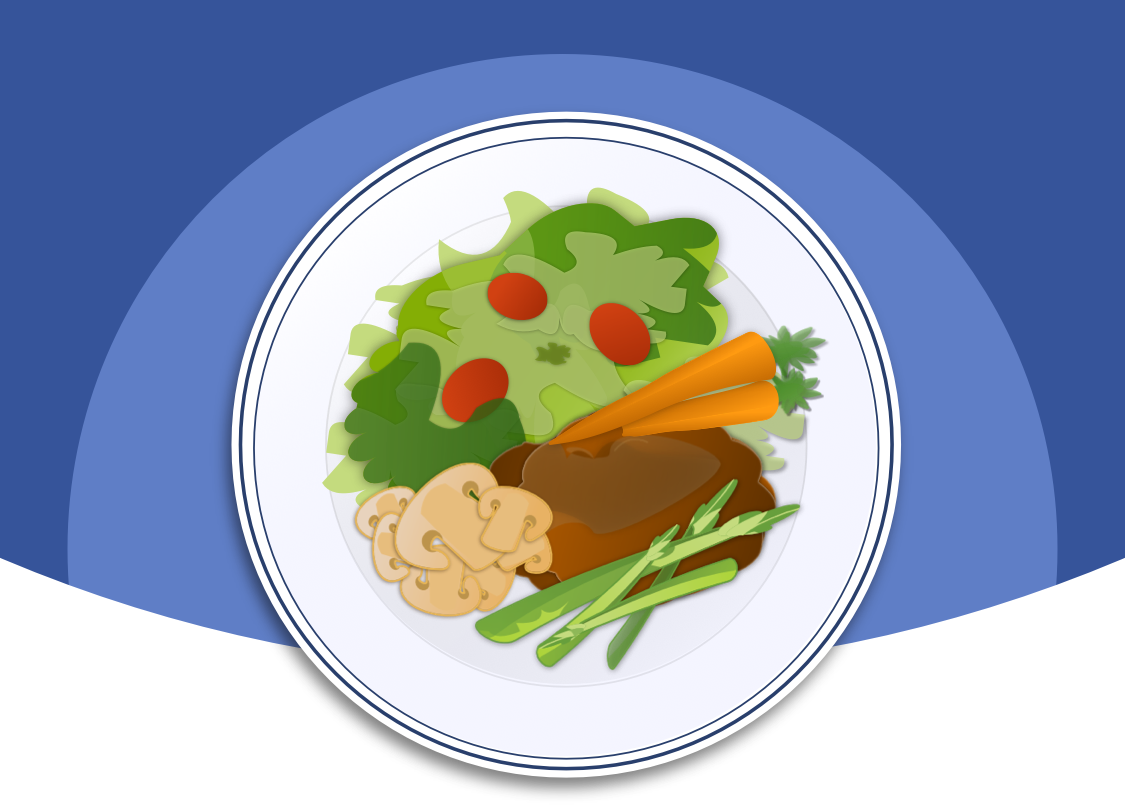
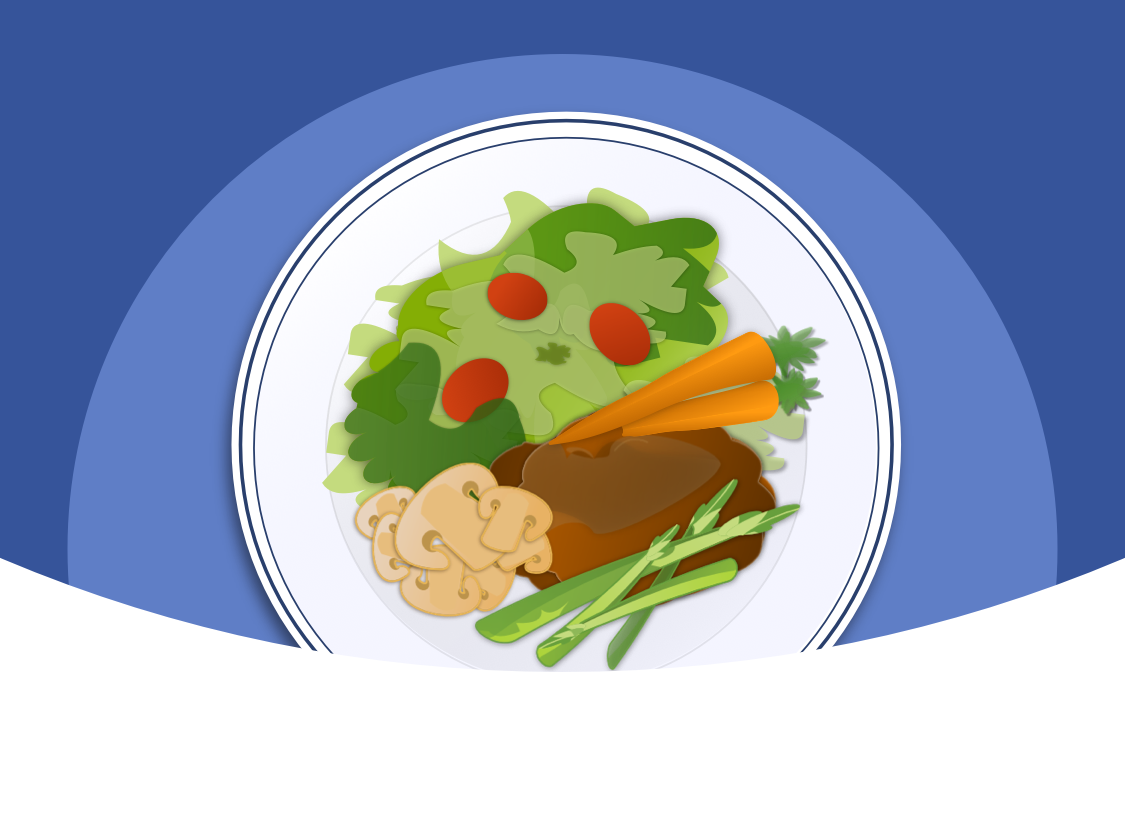
fix typo & start customize path page

diff --git a/components/CustomizePath.js b/components/CustomizePath.js
@@ -1,0 +1,193 @@
+import React from 'react';
+import {
+  ScrollView,
+  TouchableOpacity,
+  View,
+  Text,
+  Image,
+  StyleSheet,
+} from 'react-native';
+import FFStatusBar from './common/FFStatusBar';
+import NutrientButton from './common/NutrientButton';
+import BackArrow from './common/BackArrow';
+import PathHeader from './common/PathHeader';
+import BlueBottomElipse2 from './common/BlueBottomElipse2';
+import FFNarrowButton from './common/FFNarrowButton';
+import {connect} from 'react-redux';
+import {normalize} from '../utils/deviceScaling';
+import propTypes from 'prop-types';
+
+class CustomizePath extends React.Component {
+  static propTypes = {
+    errorMessage: '',
+  };
+  renderNutrients = (nutrients) => {
+    let nutrientByTheme = {};
+    nutrients.map((nutrient) => {
+      if (!nutrientByTheme[nutrient.themeId]) {
+        nutrientByTheme[nutrient.themeId] = [];
+      }
+      nutrientByTheme[nutrient.themeId].push(nutrient);
+    });
+    // if theme is added, must update here:
+    const range = [1, 2, 3, 4, 5];
+    return (
+      <View style={styles.nutrientsContainer}>
+        {range.map((i) => {
+          const themeNutrients = nutrientByTheme[i];
+          return themeNutrients.map((nutrient) => {
+            return (
+              <NutrientButton
+                key={nutrient.id}
+                nutrient={nutrient}
+                style={styles.nutrientButton}
+                navigation={this.props.navigation}
+                displayAddNutrientButton={true}
+              />
+            );
+          });
+        })}
+      </View>
+    );
+  };
+  render() {
+    const nutrients = this.props.nutrients.list;
+    return (
+      <>
+        <FFStatusBar />
+        {/*scrollIndicatorInsets setting prevents bug: https://github.com/facebook/react-native/issues/26610*/}
+        <ScrollView style={styles.rectangle} scrollIndicatorInsets={{right: 1}}>
+          {/**render default header under real header so if internet fails, default header appears.*/}
+          <PathHeader style={styles.headerImg} />
+          <View style={styles.formContainer}>
+            <Text style={styles.h1}>Customize Your Path</Text>
+          </View>
+          <Text style={styles.title}></Text>
+          <View style={styles.line} />
+          {this.renderNutrients(nutrients)}
+
+          <BlueBottomElipse2 style={styles.blueElipse} />
+          <View style={styles.submitButton}>
+            <FFNarrowButton label={'Submit'} onClick={this.handleSubmit} />
+          </View>
+          <View style={styles.arrowContainer}>
+            <BackArrow
+              style={styles.backArrow}
+              onPress={() => this.props.navigation.pop()}
+            />
+          </View>
+        </ScrollView>
+      </>
+    );
+  }
+}
+
+const styles = StyleSheet.create({
+  headerImg: {
+    // resizeMode: 'contain',
+    width: '100%',
+    height: undefined,
+    // aspectRatio: width / height,
+    aspectRatio: 375 / 188,
+  },
+  title: {
+    marginTop: '1%',
+    marginBottom: '1%',
+    width: normalize(340),
+    alignSelf: 'center',
+    fontFamily: 'Cabin-Italic',
+    fontSize: normalize(21),
+    color: '#000000',
+  },
+  arrowContainer: {
+    position: 'absolute',
+    width: normalize(325),
+    alignSelf: 'center',
+    alignItems: 'flex-start',
+  },
+  backArrow: {
+    marginTop: normalize(41),
+  },
+  pathHeaderDefault: {
+    position: 'absolute',
+  },
+  description: {
+    marginTop: '4%',
+    marginBottom: '4%',
+    width: normalize(340),
+    alignSelf: 'center',
+    fontFamily: 'Cabin-Regular',
+    fontSize: normalize(16),
+    color: '#555555',
+  },
+  line: {
+    marginTop: '1%',
+    borderBottomWidth: normalize(0.5),
+    color: '#d9d9d9',
+    width: '100%',
+    opacity: 0.25,
+  },
+  nutrientsContainer: {
+    justifyContent: 'center',
+    width: '100%',
+    paddingTop: '10%',
+    paddingBottom: '10%',
+    backgroundColor: '#36549a',
+  },
+  nutrientButton: {
+    marginTop: '1%',
+    marginBottom: '1%',
+  },
+  errorMessage: {
+    marginTop: '7%',
+    alignItems: 'center',
+  },
+  formContainer: {
+    alignSelf: 'center',
+    width: normalize(304),
+  },
+  h1: {
+    marginTop: '5%',
+    fontSize: normalize(30),
+    color: '#555555',
+    width: normalize(150),
+    alignSelf: 'flex-start',
+    fontFamily: 'Cabin-SemiBold',
+  },
+  h2: {
+    fontSize: normalize(21),
+    color: '#555555',
+    fontFamily: 'Cabin-SemiBold',
+  },
+  h3: {
+    fontSize: normalize(16),
+    color: '#555555',
+    fontFamily: 'Cabin-SemiBold',
+  },
+  h4: {
+    fontSize: normalize(16),
+    color: '#aaaaaa',
+    fontFamily: 'Cabin-Regular',
+  },
+  blueElipse: {
+    marginTop: '10%',
+  },
+  submitButton: {
+    position: 'absolute',
+    alignSelf: 'center',
+    bottom: normalize(60),
+  },
+  rectangle: {
+    backgroundColor: '#FFFFFF',
+    minHeight: '100%',
+    flex: 1,
+  },
+});
+
+const mapStateToProps = (state) => ({
+  auth: state.auth,
+  user: state.user,
+  nutrients: state.nutrients,
+});
+
+export default connect(mapStateToProps)(CustomizePath);

diff --git a/utils/auth.js b/utils/auth.js
@@ -8,7 +8,7 @@ export function getLoginError(loginResponse) {
   if (loginResponse.status === 401)
     return 'Password is incorrect. Please try a different password.';
   if (loginResponse.status === 404)
-    return 'Could not find account under this email. Please check for typos an try again.';
+    return 'Could not find account under this email. Please check for typos and try again.';
   if (loginResponse.status !== 200)
     return 'The email and password you have entered are incorrect.';
   return;
@@ -32,7 +32,7 @@ export function getPasswordResetError(resetResponse) {
   if (resetResponse.status >= 500)
     return 'Network error. Please make sure you are connected to the internet.';
   if (resetResponse.status === 404)
-    return 'Could not find account under this email. Please check for typos an try again.';
+    return 'Could not find account under this email. Please check for typos and try again.';
   if (resetResponse.status !== 200)
     return 'Password reset failed.  Please submit a new request and try again.';
   return;

diff --git a/components/App.js b/components/App.js
@@ -19,6 +19,7 @@ import OnboardingSurvey from './OnboardingSurvey';
 import Dashboard from './Dashboard';
 import NutrientDetail from './NutrientDetail';
 import MyPath from './MyPath';
+import CustomizePath from './CustomizePath';
 import SelectPath from './SelectPath';
 import PathDetail from './PathDetail';
 import TermsAndConditions from './TermsAndConditions';
@@ -91,6 +92,7 @@ class App extends React.Component {
             <Stack.Screen name="Select Path" component={SelectPath} />
             <Stack.Screen name="Path Detail" component={PathDetail} />
             <Stack.Screen name="My Path" component={MyPath} />
+            <Stack.Screen name="Customize Path" component={CustomizePath} />
             <Stack.Screen name="Progress" component={Progress} />
             <Stack.Screen name="Nutrient Detail" component={NutrientDetail} />
           </>

diff --git a/components/OnboardingSurvey.js b/components/OnboardingSurvey.js
@@ -16,7 +16,6 @@ import OfflineNotificationBanner from './common/OfflineNoticeBanner';
 import BlueBottomElipse2 from './common/BlueBottomElipse2';
 import orangeElipse from '../assets/images/top-elipse-two-toned-orange.png';
 import plant from '../assets/images/monstera.png';
-import blueElipse from '../assets/images/bottom-elipse-blue-2.png';
 
 class OnboardingSurvey extends React.Component {
   state = {
@@ -40,6 +39,7 @@ class OnboardingSurvey extends React.Component {
   };
   handleSubmit = async () => {
     // Validate fields
+    this.setState({errorMessage: ''});
     let errorMessage;
     errorMessage = validateDate(this.state.birthday);
     errorMessage =

diff --git a/__tests__/PasswordReset.test.js b/__tests__/PasswordReset.test.js
@@ -21,7 +21,7 @@ test('Returns error if /sendpasswordresetemail request response is 404', () => {
   };
   const errorMessage = getPasswordResetError(signUpResponse);
   expect(errorMessage).toMatch(
-    'Could not find account under this email. Please check for typos an try again.',
+    'Could not find account under this email. Please check for typos and try again.',
   );
 });
 test('Returns error if /sendpasswordresetemail request response is 400', () => {

diff --git a/__tests__/SignIn.test.js b/__tests__/SignIn.test.js
@@ -62,7 +62,7 @@ test('Returns error if login response is 404', async () => {
   };
   const errorMessage = getLoginError(loginResponse);
   expect(errorMessage).toMatch(
-    'Could not find account under this email. Please check for typos an try again.',
+    'Could not find account under this email. Please check for typos and try again.',
   );
 });
 test('Returns error if login response is 401', async () => {

diff --git a/components/common/NutrientButton/index.js b/components/common/NutrientButton/index.js
@@ -15,6 +15,7 @@ import yellowIcon from './assets/yellow-icon.png';
 import redBar from './assets/red-bar.png';
 import redIcon from './assets/red-icon.png';
 
+// if theme is added, must update in Customize Path page.
 const themes = {
   1: {
     bar: blueBar,

diff --git a/components/common/PathFooter/index.js b/components/common/PathFooter/index.js
@@ -21,7 +21,7 @@ const styles = StyleSheet.create({
     width: '100%',
     height: undefined,
     // aspectRatio: width / height,
-    aspectRatio: 375 / 270,
+    aspectRatio: 375 / 279,
   },
 });
 
